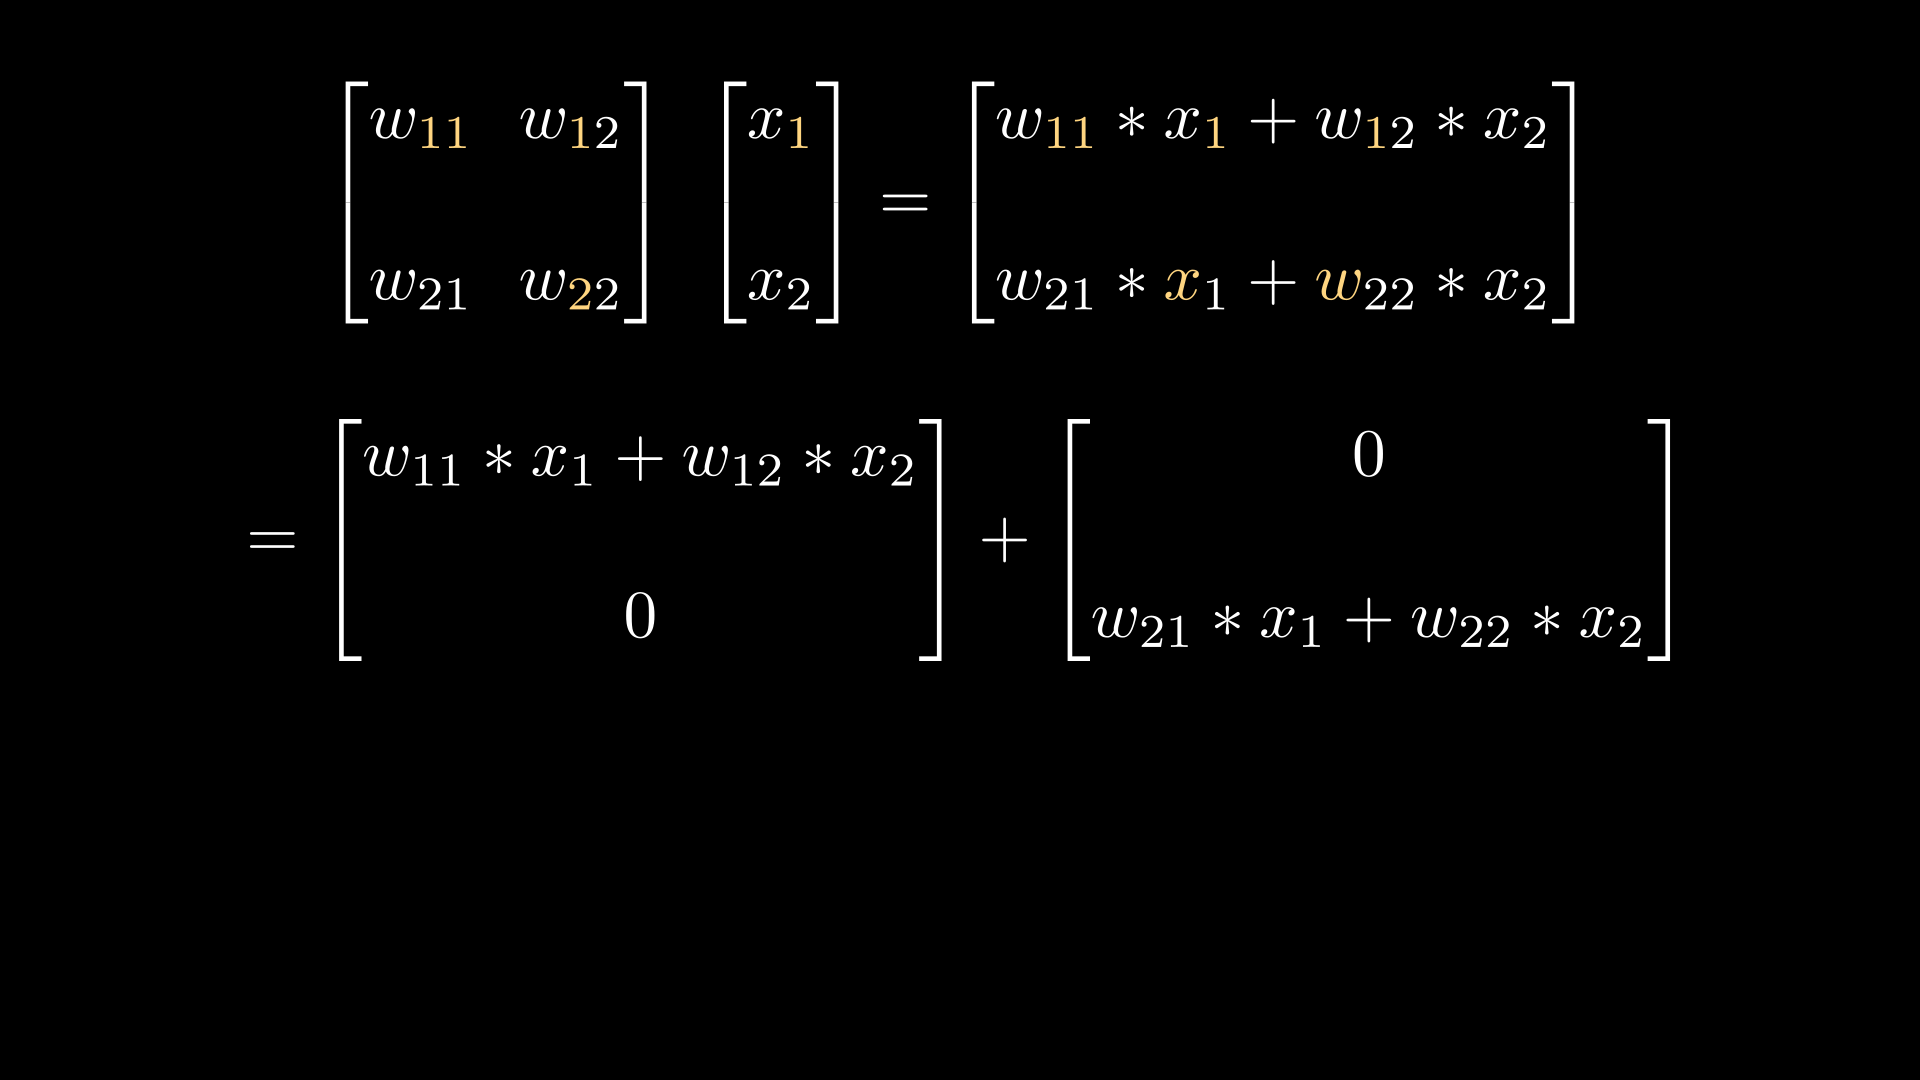
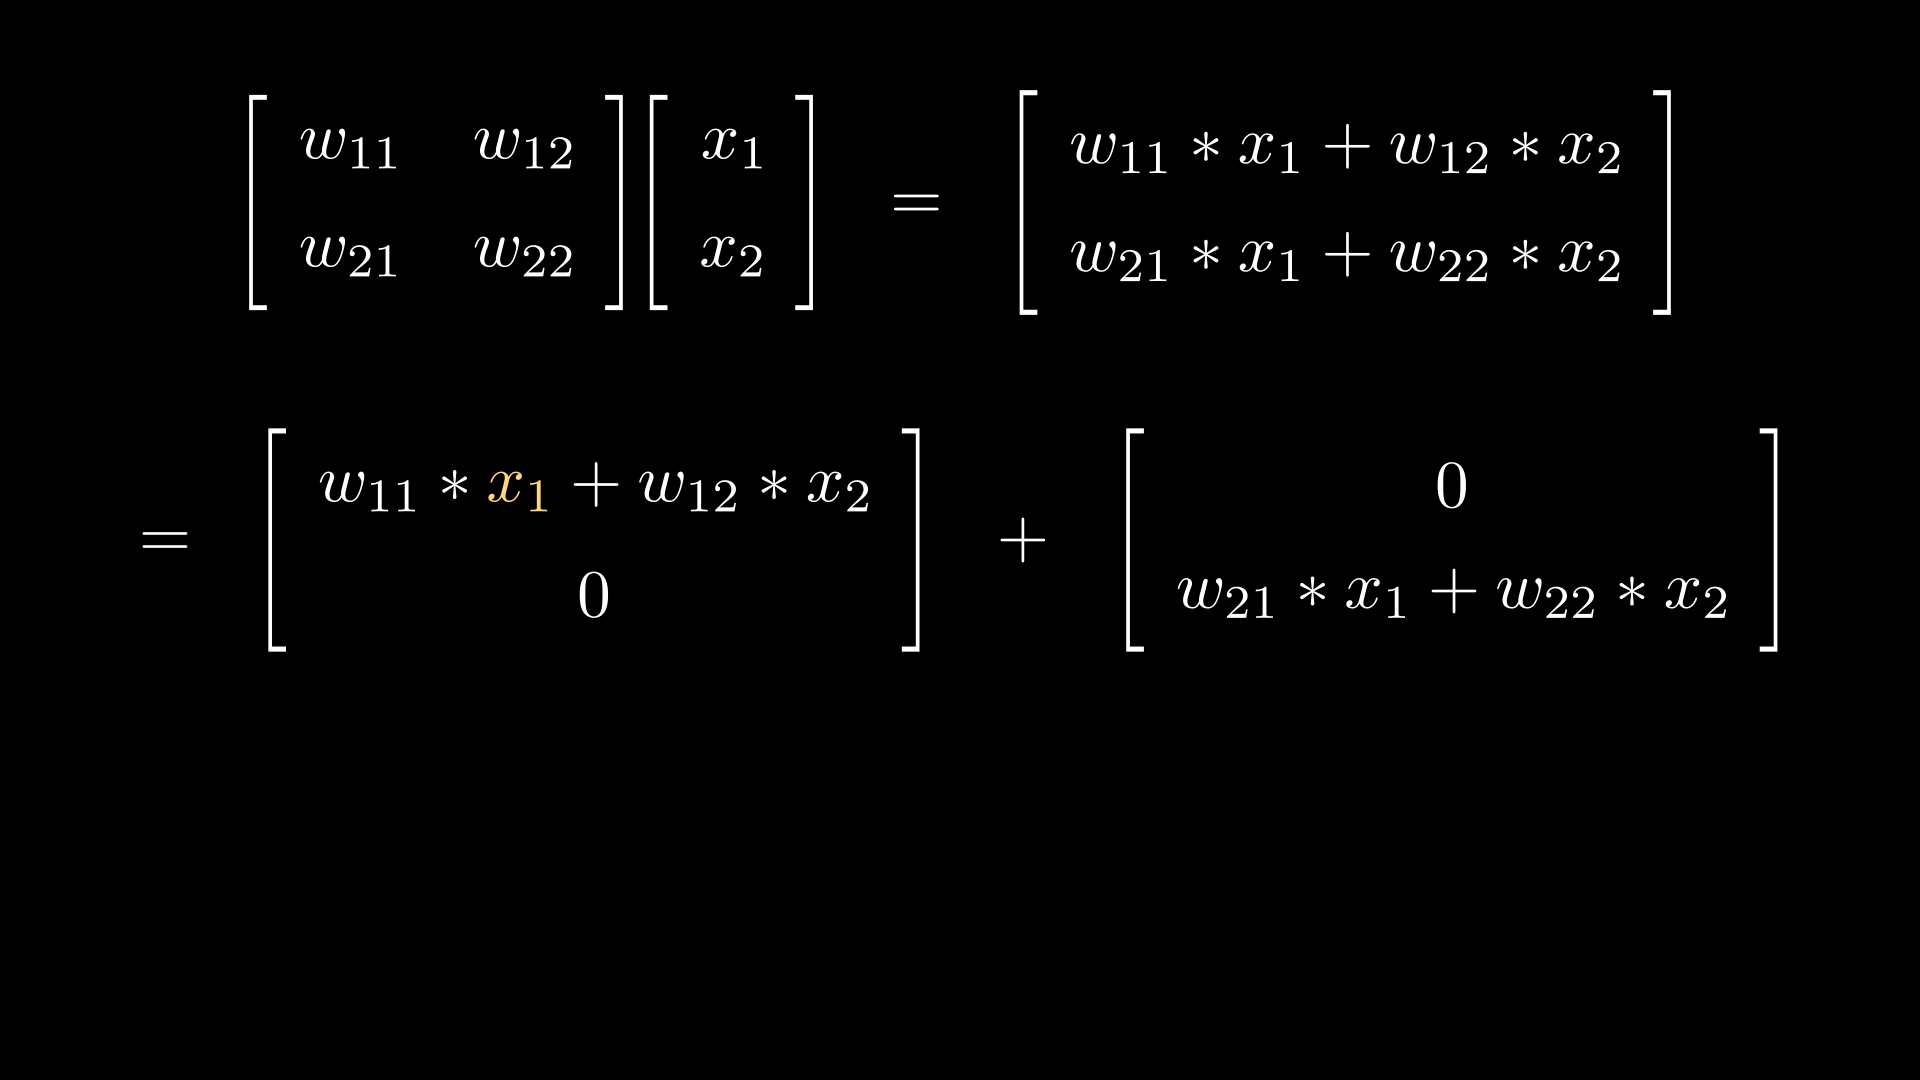
8.1_equiv- try to decipher indices use for set_color for MathTex- solved

diff --git a/video 1/8.1_equiv_WX.py b/video 1/8.1_equiv_WX.py
@@ -1,5 +1,5 @@
 from manim import *
-import pdb
+import pdb, re
 
 class scene_8_equiv_WX(Scene):
     def construct(self):  
@@ -36,7 +36,42 @@ class scene_8_equiv_WX(Scene):
         
         # self.add(row2)
 
-        m1 = Matrix([["w_{11}", "w_{12}"], ["w_{21}", "w_{22}"]]).set_row_colors(WHITE, BLACK).move_to([-3.5,2,0])
-        x = Matrix([["x_{1}"], ["x_{2}"]]).move_to([-1,2,0])
+        #####################
+        m1 = Matrix([["w_{11}", "w_{12}"], ["w_{21}", "w_{22}"]])
+        x = Matrix([["x_{1}"], ["x_{2}"]])
 
-        dot_prod_row1 = Matrix([["w_{11} * x_{1} + w_{12} * x_{2}"], ["w_{21} * x_{1} + w_{22} * x_{2}"]]).set_row_colors(WHITE, BLACK).move_to([-2.5,2,0])
+        dot_prod_row1 = Matrix([["w_{11} * x_{1} + w_{12} * x_{2}"], ["w_{21} * x_{1} + w_{22} * x_{2}"]])
+
+        row1_left = Group(m1, x).arrange(buff=0.2)
+
+        equals = MathTex("=")
+
+        row1 = Group(row1_left, equals, dot_prod_row1).arrange(buff=0.6).shift(UP*2.5)
+
+        self.add(row1)
+
+        #####################
+        equals_row_2 = MathTex("=")
+
+        plus_row2 = MathTex("+")
+
+        dot_prod_row2_left = Matrix([["w_{11} * x_{1} + w_{12} * x_{2}"], ["0"]], 
+            element_alignment_corner=ORIGIN)
+        ent = dot_prod_row2_left.get_entries()
+        # pdb.set_trace()
+
+        pure_string_1 = "w_{11} * x_{1} + w_{12} * x_{2}"
+        pure_string_1 = pure_string_1.replace('_', '').replace('{', '').replace('}', '').replace(' ', '')
+        find = 'x1'
+        match_inds = [ i.start() for i in re.finditer(find, pure_string_1)]
+        # pdb.set_trace()
+        for ind in match_inds:
+            ent[0][0][ind: ind +len(find)].set_color('#FFD580')
+
+        # ent[0][0][4].set_color(RED)
+
+        dot_prod_row2_right = Matrix([["0"], ["w_{21} * x_{1} + w_{22} * x_{2}"]], 
+            element_alignment_corner=ORIGIN)
+
+        row2 = Group(equals_row_2, dot_prod_row2_left, plus_row2, dot_prod_row2_right).arrange(buff=0.6)
+        self.add(row2)

diff --git a/video 1/colorfulMathTex_mat.py b/video 1/colorfulMathTex_mat.py
@@ -1,0 +1,28 @@
+from manim import *
+
+class ColorfulMathTexMatrix(Scene):
+    def construct(self):
+        # Define the matrix entries and their colors
+        entries = [
+            ["\\color{red} 1", "\\color{blue} 2", "\\color{green} 3"],
+            ["\\color{purple} 4", "\\color{orange} 5", "\\color{teal} 6"],
+            ["\\color{magenta} 7", "\\color{brown} 8", "\\color{gray} 9"]
+        ]
+        
+        # Create the MathTex matrix
+        matrix = MathTex("\\begin{pmatrix}", *["&".join(row) + "\\\\" for row in entries], "\\end{pmatrix}")
+        matrix.set_color_by_tex_to_color_map({
+            "red": RED,
+            "blue": BLUE,
+            "green": GREEN,
+            "purple": PURPLE,
+            "orange": ORANGE,
+            "teal": TEAL,
+            "magenta": ORANGE,
+            "brown": ORANGE,
+            "gray": GRAY
+        })
+        matrix.scale(1.5)
+        
+        # Add the matrix to the scene
+        self.add(matrix)
